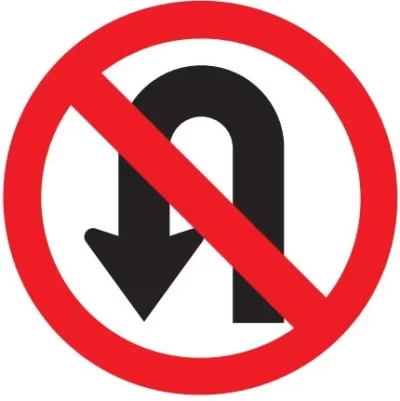
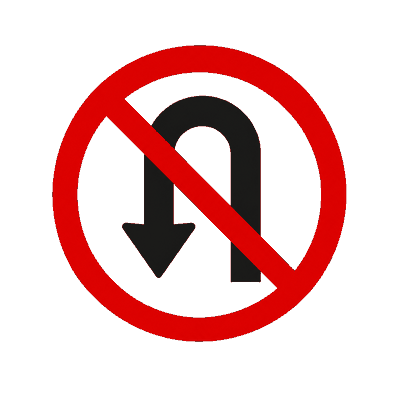
perf: aplica la misma optimizacion a Pare, adelantar y giro en U
Las tres imagenes se reemplazaron por versiones al estilo de las demas,
pero llegaron con el mismo problema: 1254x1254 y entre 859 y 915 KB.

Mismo tratamiento que en ee63ea5 (reescalado a 400 px, fondo casi-blanco
a blanco puro, paleta de 32 colores sin dither):

  Pare.png                 859K -> 30K   (96.5%)
  prohibido_adelantar.png  914K -> 24K   (97.3%)
  Prohibido_girar_U.png    901K -> 23K   (97.5%)

Con esto las nueve senales reglamentarias quedan en 400x400 y entre 9 y
30 KB. Verificado en el navegador: las nueve cargan, todas a la misma
resolucion y sin bordes degradados.

Cache-buster a ?v=33.

diff --git a/guia/zonas.html b/guia/zonas.html
@@ -122,6 +122,6 @@
   <button class="to-top" id="toTop" aria-label="Volver arriba">↑</button>
 
   <script src="https://unpkg.com/leaflet@1.9.4/dist/leaflet.js"></script>
-  <script src="../js/app.js?v=32"></script>
+  <script src="../js/app.js?v=33"></script>
 </body>
 </html>

diff --git a/index.html b/index.html
@@ -175,6 +175,6 @@
   <button class="to-top" id="toTop" aria-label="Volver arriba">↑</button>
 
   <script src="https://unpkg.com/leaflet@1.9.4/dist/leaflet.js"></script>
-  <script src="js/app.js?v=32"></script>
+  <script src="js/app.js?v=33"></script>
 </body>
 </html>

diff --git a/guia/accidentes.html b/guia/accidentes.html
@@ -75,6 +75,6 @@
 
   <button class="to-top" id="toTop" aria-label="Volver arriba">↑</button>
 
-  <script src="../js/app.js?v=32"></script>
+  <script src="../js/app.js?v=33"></script>
 </body>
 </html>

diff --git a/guia/consejos.html b/guia/consejos.html
@@ -76,6 +76,6 @@
 
   <button class="to-top" id="toTop" aria-label="Volver arriba">↑</button>
 
-  <script src="../js/app.js?v=32"></script>
+  <script src="../js/app.js?v=33"></script>
 </body>
 </html>

diff --git a/guia/documentos.html b/guia/documentos.html
@@ -75,6 +75,6 @@
 
   <button class="to-top" id="toTop" aria-label="Volver arriba">↑</button>
 
-  <script src="../js/app.js?v=32"></script>
+  <script src="../js/app.js?v=33"></script>
 </body>
 </html>

diff --git a/guia/infracciones.html b/guia/infracciones.html
@@ -75,6 +75,6 @@
 
   <button class="to-top" id="toTop" aria-label="Volver arriba">↑</button>
 
-  <script src="../js/app.js?v=32"></script>
+  <script src="../js/app.js?v=33"></script>
 </body>
 </html>

diff --git a/guia/normas.html b/guia/normas.html
@@ -75,6 +75,6 @@
 
   <button class="to-top" id="toTop" aria-label="Volver arriba">↑</button>
 
-  <script src="../js/app.js?v=32"></script>
+  <script src="../js/app.js?v=33"></script>
 </body>
 </html>

diff --git a/guia/senales.html b/guia/senales.html
@@ -76,6 +76,6 @@
 
   <button class="to-top" id="toTop" aria-label="Volver arriba">↑</button>
 
-  <script src="../js/app.js?v=32"></script>
+  <script src="../js/app.js?v=33"></script>
 </body>
 </html>

diff --git a/guia/velocidad.html b/guia/velocidad.html
@@ -75,6 +75,6 @@
 
   <button class="to-top" id="toTop" aria-label="Volver arriba">↑</button>
 
-  <script src="../js/app.js?v=32"></script>
+  <script src="../js/app.js?v=33"></script>
 </body>
 </html>
